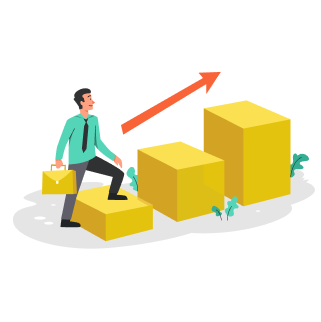
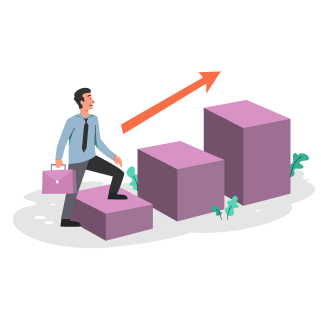
COLOR PALETE update

diff --git a/actuallyhelpfulaccountant-2/src/global.scss b/actuallyhelpfulaccountant-2/src/global.scss
@@ -1,19 +1,19 @@
 
 :root {
 	// Color Pallet
-	--ColorL: #ACF0E1; // light color
-	--Color: #35AE93; // main color
-	--ColorD: #35AE93; // main color darker
+	--Color2L: #FFD9CA; // light color
+	--Color2: #E97446; // main color
+	--Color2D: #5B2C1A; // main color darker
 	--ColorOpposite: black; // opposite color
 
-	--Color2L: #F3F0E9; // secondary color light
-	--Color2: #FFD700; // secondary color
-	--Color2D: #917800; // secondary color darker
+	--Color3L: #FFCDF0; // secondary color light
+	--Color3: #A37696; // secondary color
+	--Color3D: #624359; // secondary color darker
 	--Color2Opposite: black; // opposite color
 
-	--Color3L: #FABDAB; // third color light
-	--Color3: #aa6d5b; // third color
-	--Color3D: #5e2f20; // third color darker
+	--ColorL: #DDEFFF; // third color light
+	--Color: #9AB8D2; // third color
+	--ColorD: #2C2662; // third color darker
 	--Color3Opposite: black; // opposite color
 
 	--Color4L: #F2F2F2; // third color light
